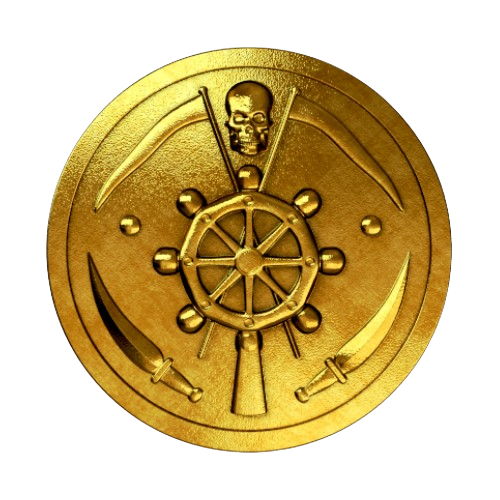
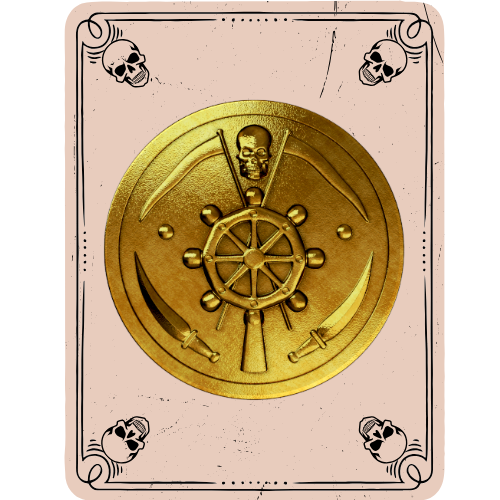
Added new file.

diff --git a/styles.css b/styles.css
@@ -10,6 +10,7 @@ body {
     text-align: center;
     font-weight: 700;
     font-size: 50px;
+    text-decoration: underline;
     font-family: "Pirata One", serif;
  }
  
@@ -45,53 +46,43 @@ body {
  
  
  .card {
-  height: 180px; /* Equal height and width for a perfect circle */
-  width: 180px;
-  border-radius: 50%; /* Make the card circular */
-  position: relative;
-  transform-style: preserve-3d;
-  transition: all 0.5s ease-in-out;
-  overflow: hidden; /* Ensure no content spills outside the circle */
+   width: 180px;  /* Set the width for the card */
+   height: 270px;  /* Set the height for the card */
+   position: relative;
+   transform-style: preserve-3d;
+   transition: all 0.5s ease-in-out;
+   overflow: hidden;  /* Prevents any content from spilling out */
  }
  
- 
- .front, .back {
-    backface-visibility: hidden;
-    position: absolute;
-    border-radius: 50%;  /* Make them circular */
-    top: 50%; /* Center vertically */
-    left: 50%; /* Center horizontally */
-    transform: translate(-50%, -50%); /* Adjust positioning to center perfectly */
-    height: 100%; /* Ensure they fill the .card */
-    width: 100%;  /* Ensure they fill the .card */
+ .card .front, .card .back {
+   position: absolute;
+   top: 0;
+   left: 0;
+   width: 100%;  /* Ensure both front and back fill the card */
+   height: 100%; /* Ensure both front and back fill the card */
+   backface-visibility: hidden;  /* Hide the back when flipped */
  }
  
  .card .back {
-  background-image: url("assets/cardback.png");
-  background-position: center center;
-  background-size: cover;
-  backface-visibility: hidden;
+   background-image: url("assets/cardback.png");
+   background-position: center;
+   background-size: cover;
+   transform: rotateY(0deg);
  }
-
- .card.flipped {
-  transform: rotateY(180deg); /* Flip the card added */
+ 
+ .card.flipped .back {
+   transform: rotateY(180deg);
  }
  
  .card .front {
+   transform: rotateY(180deg);  /* Hide the front when flipped */
    display: flex;
    justify-content: center;
    align-items: center;
-  }
-  
- .card .front {
-  transform: rotateY(180deg);
  }
  
- 
- .front-image {
-  width: 60px;
-  height: 60px;
+ .card .front img {
+   width: 120px;  /* Adjust image size to fit nicely in the card */
+   height: 120px;
  }
  
-
-

diff --git a/style.js b/style.js
@@ -51,6 +51,7 @@ function flipCard() {
   if (this === firstCard) return;
 
   this.classList.add("flipped");
+  console.log("Card flipped:", this);  // Log to check
 
   if (!firstCard) {
     firstCard = this;
